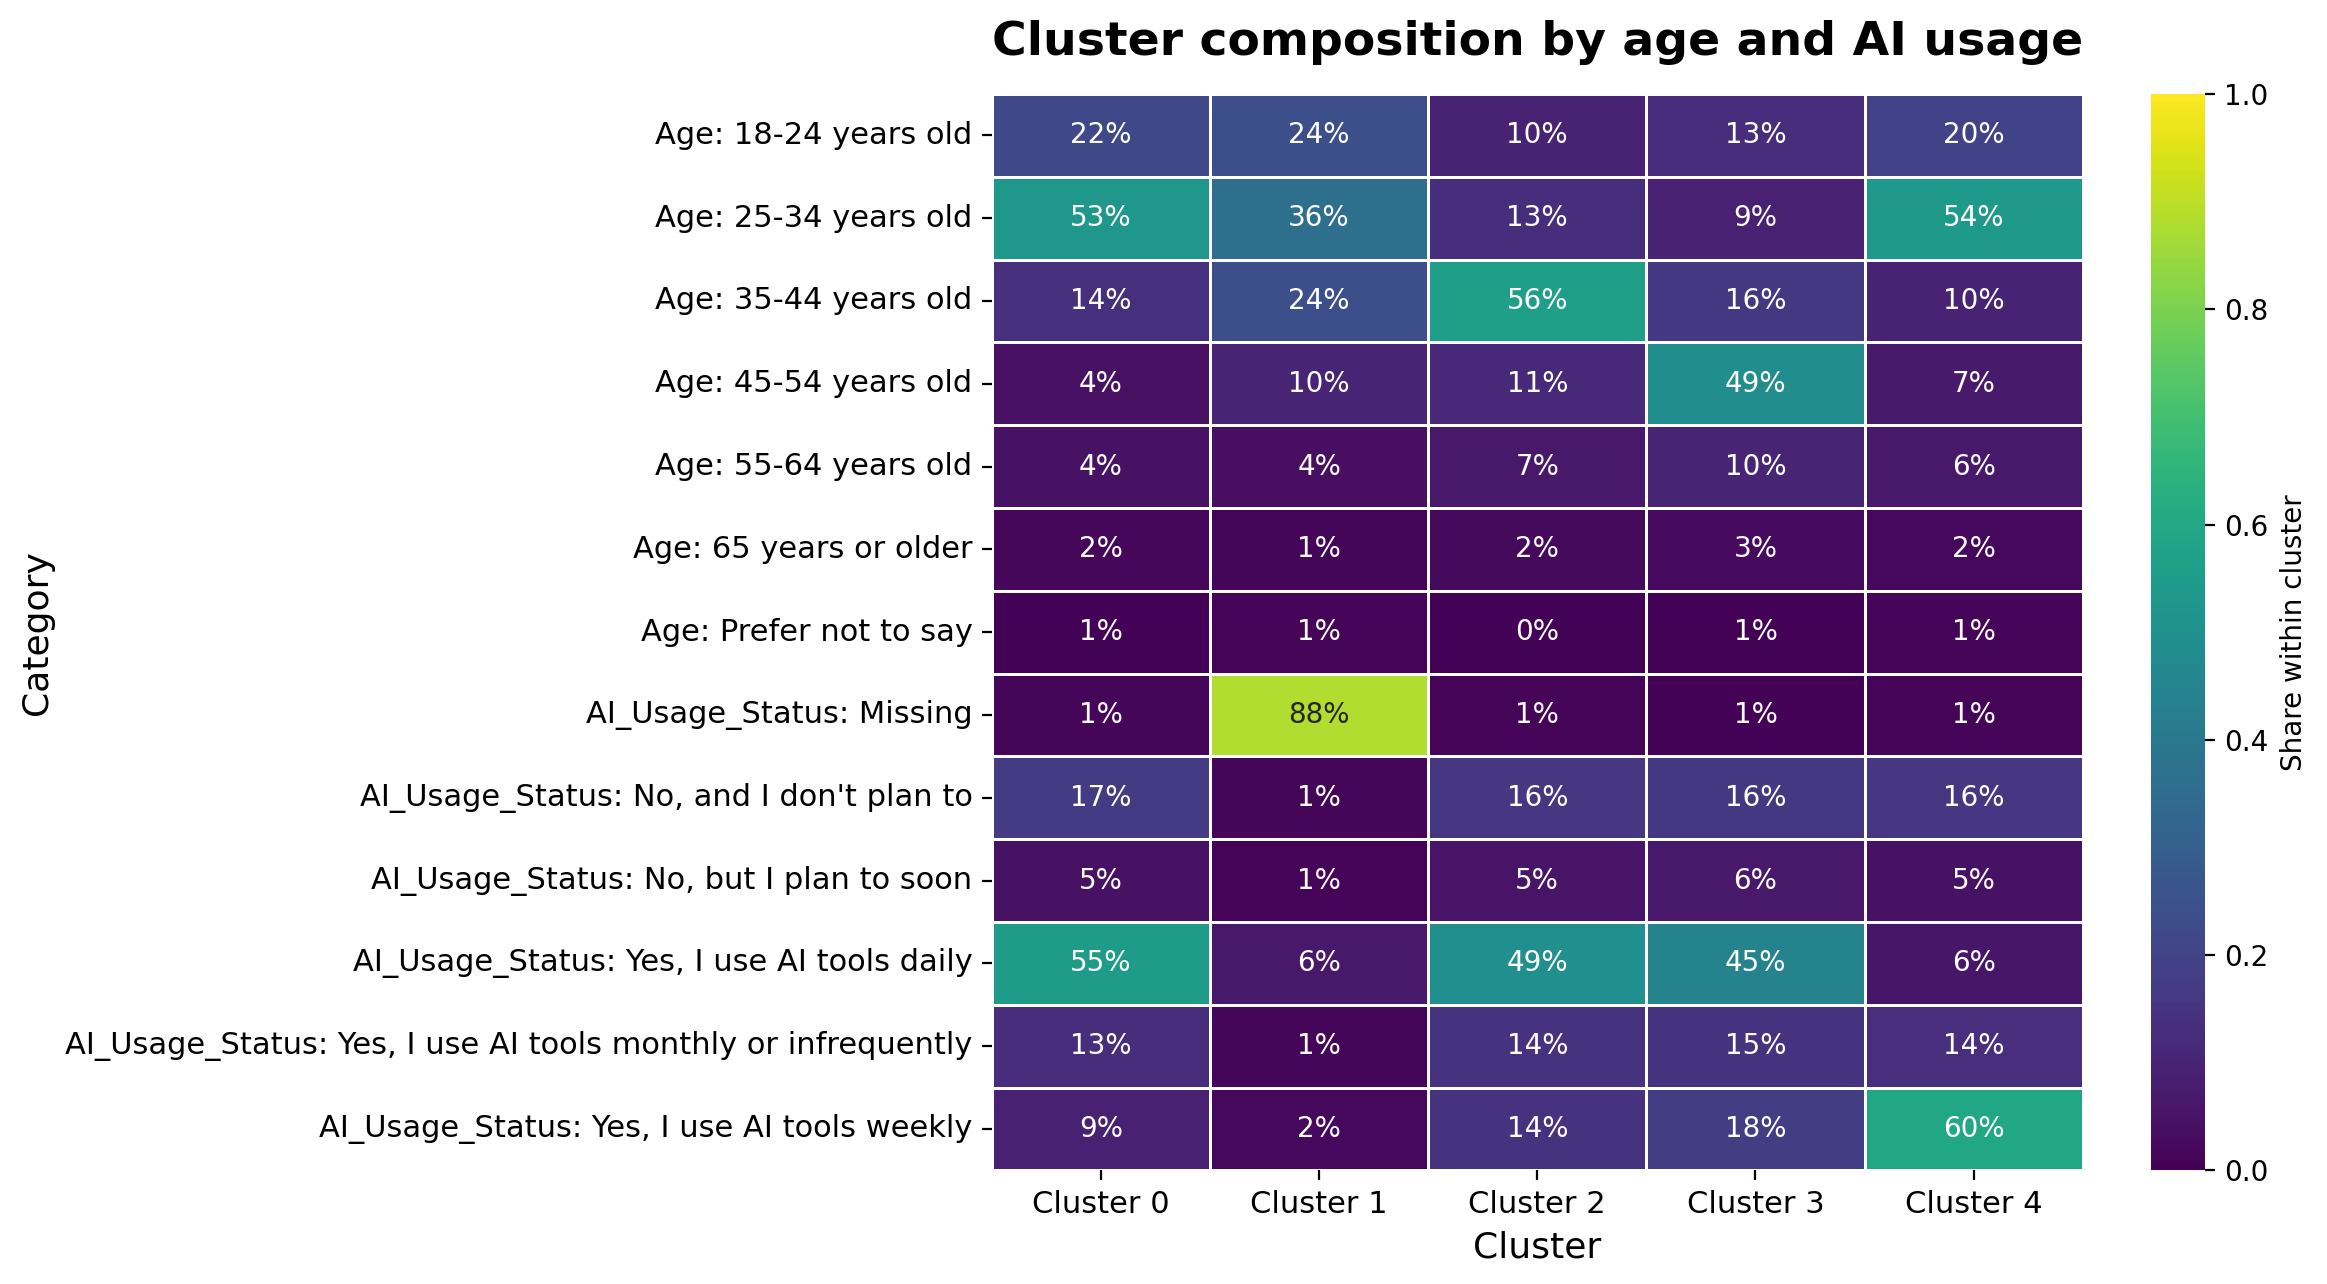
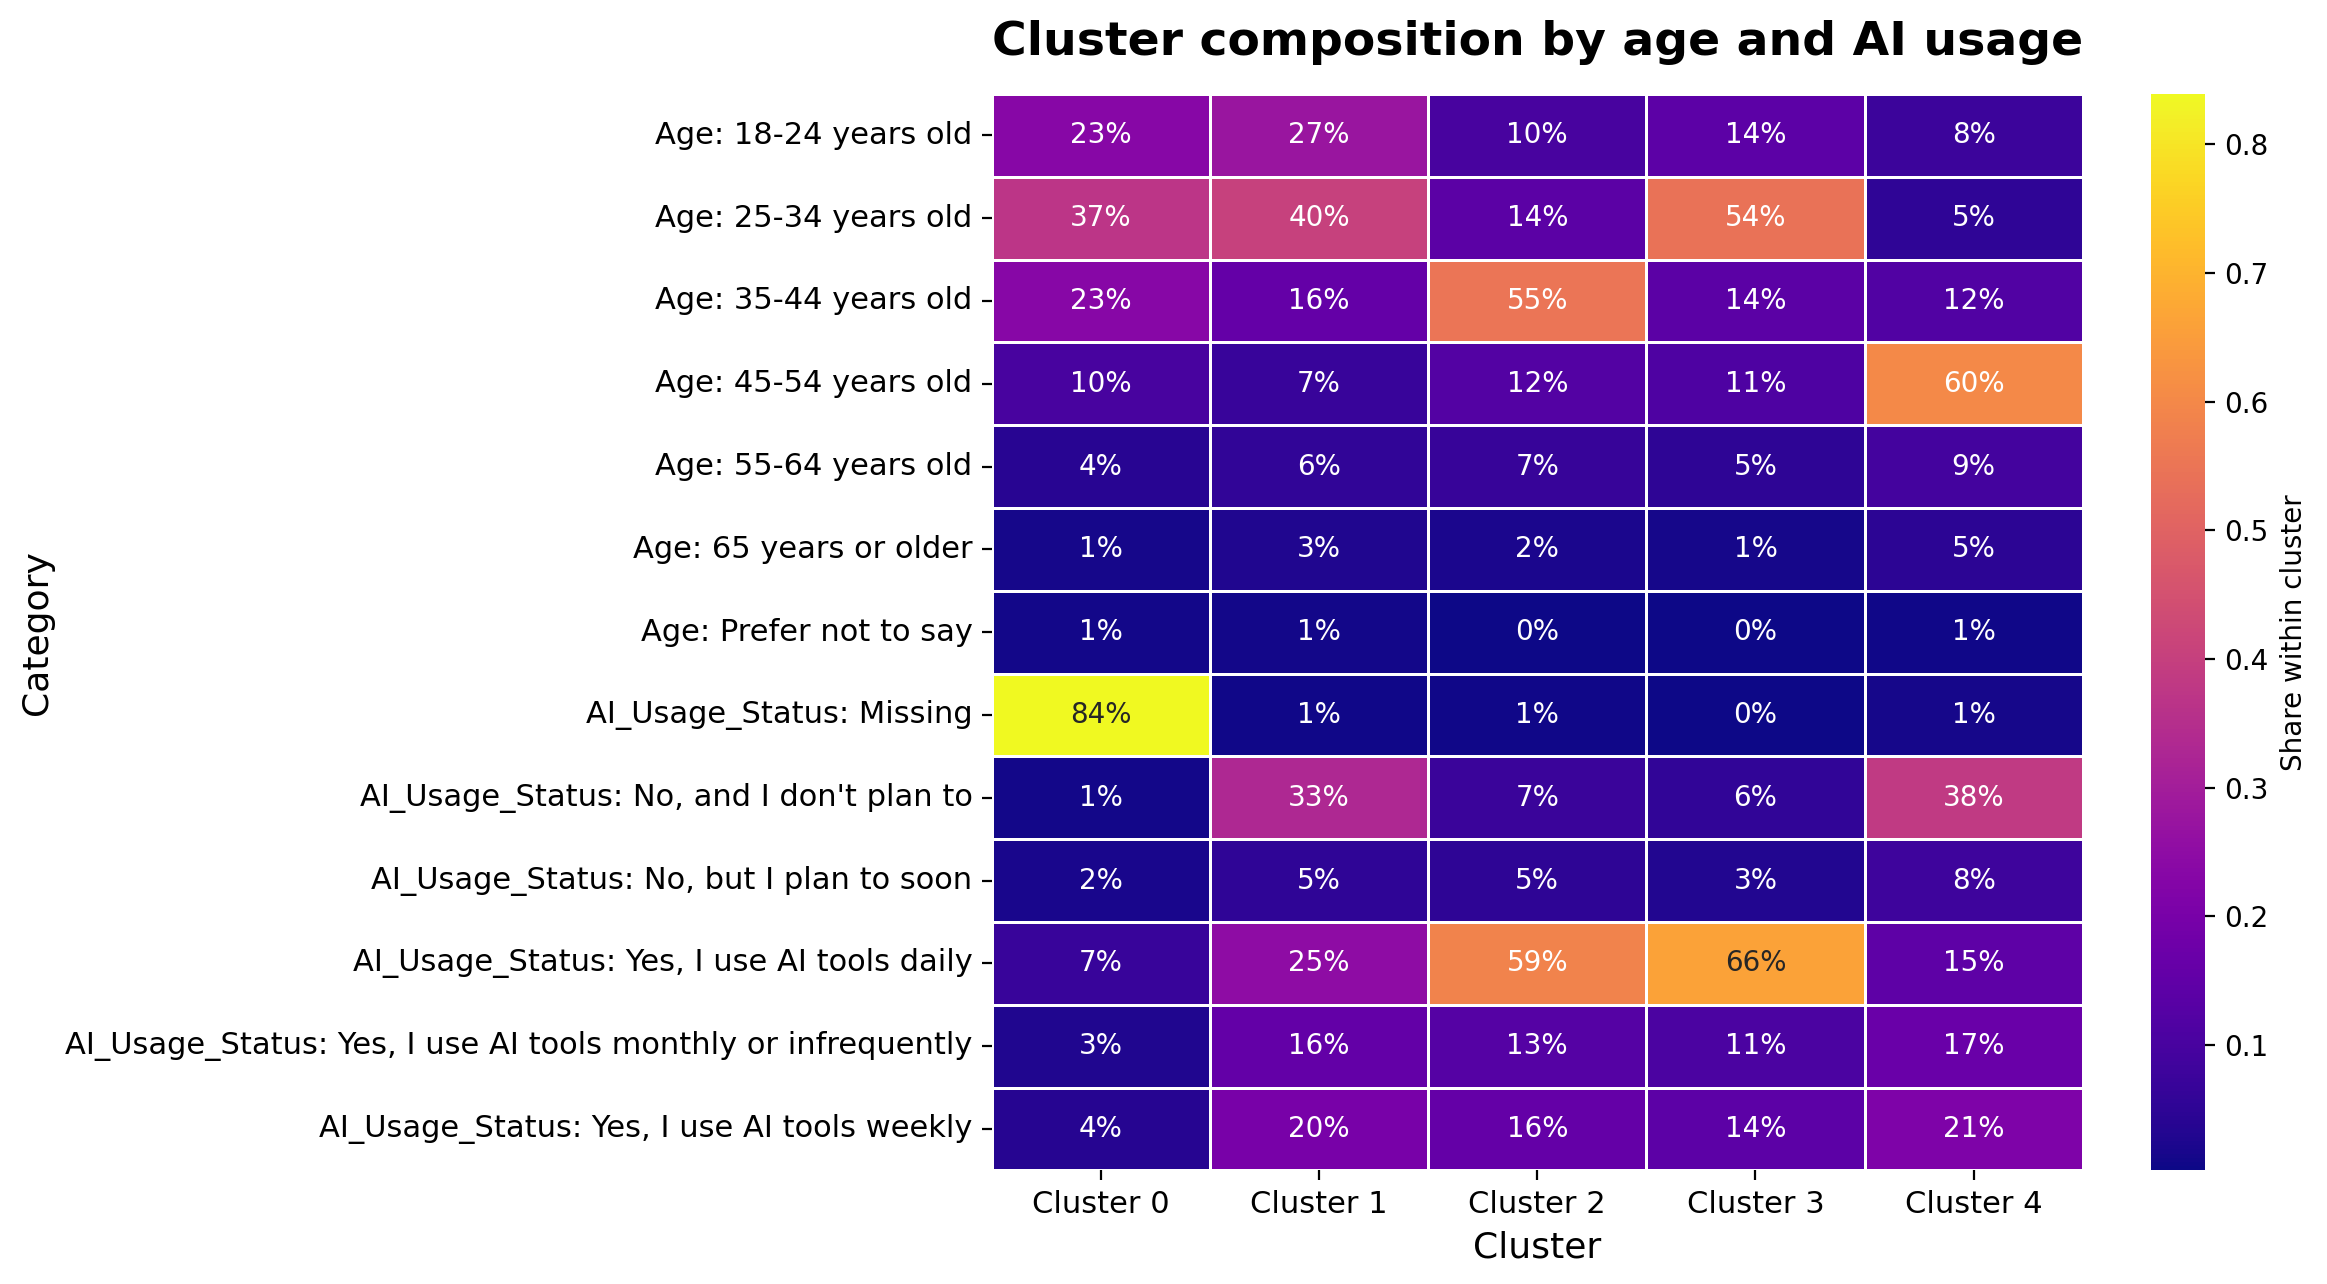
fixed heatmap

diff --git a/src/analysis/cluster_developers.py b/src/analysis/cluster_developers.py
@@ -54,14 +54,19 @@ def plot_cluster_heatmap(
     """
     matrix = _cluster_heatmap_matrix(labeled, n_clusters)
 
+    vmin = float(matrix.values.min())
+    vmax = float(matrix.values.max())
+    if vmin == vmax:
+        vmin, vmax = 0.0, 1.0
+
     fig_height = max(5.5, 0.35 * len(matrix) + 2.0)
     fig, ax = plt.subplots(figsize=(max(8, 1.6 * n_clusters + 4), fig_height))
     sns.heatmap(
         matrix,
         ax=ax,
-        cmap="viridis",
-        vmin=0.0,
-        vmax=1.0,
+        cmap="plasma",
+        vmin=vmin,
+        vmax=vmax,
         annot=True,
         fmt=".0%",
         linewidths=0.4,
